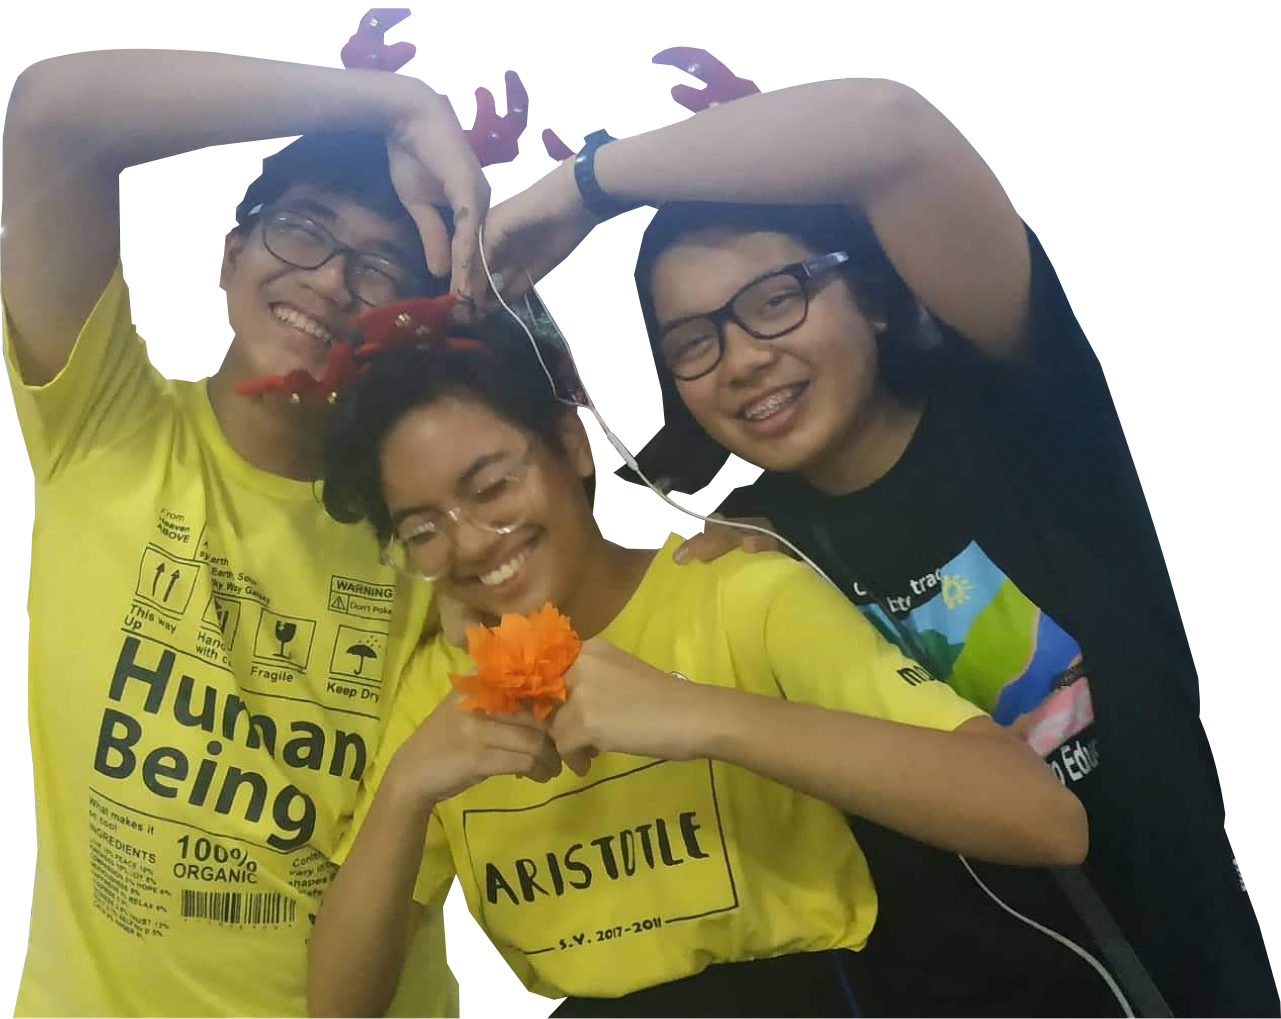
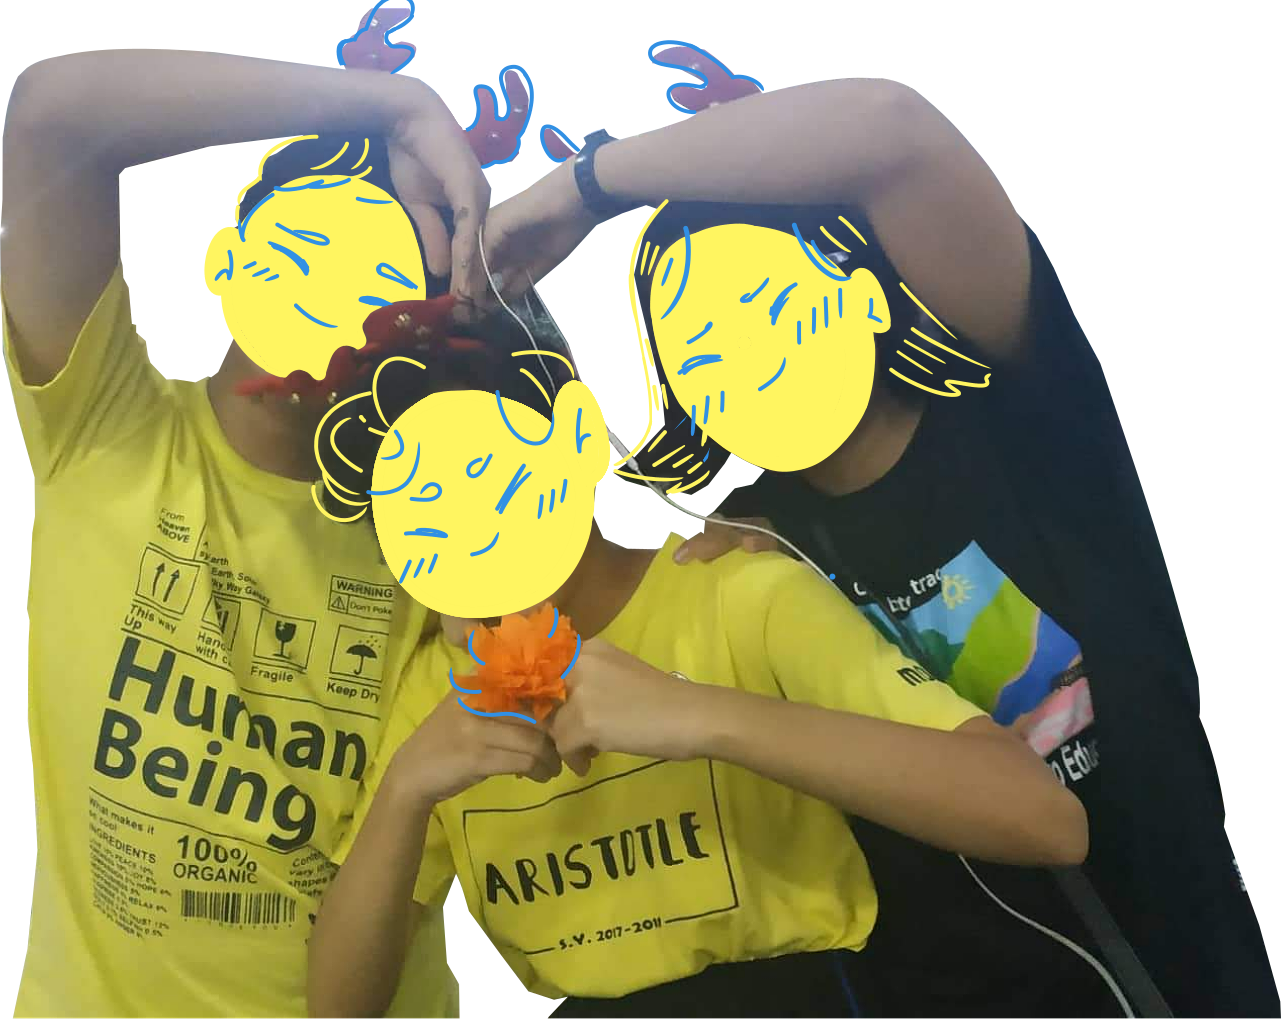
changed the pic sa about us

diff --git a/about-me-final-(3rd).html b/about-me-final-(3rd).html
@@ -3,7 +3,7 @@
 	<head>
 		<meta charset="UTF-8" />
 		
-		<title>About Me :v </title>
+		<title>About Us :> </title>
 		
 		<script src="https://kit.fontawesome.com/bb881ac9f5.js" crossorigin="anonymous"></script>
 		
@@ -64,7 +64,7 @@
 			<div class = "middle"> 
 			<div> 
 				<div class = "ribbon-mobile"> <img class="fancy-ribbon" src = "img/about-me-ribbon.png"/>  </div>
-				<img id="you" src = "img/about-me-final.png"/> </div>
+				<img id="you" src = "img/about-us-final.png"/> </div>
 			</div>
 			<div class = "text-content robot robot-dark">  
 				<div class = "narrower"><span><i>
